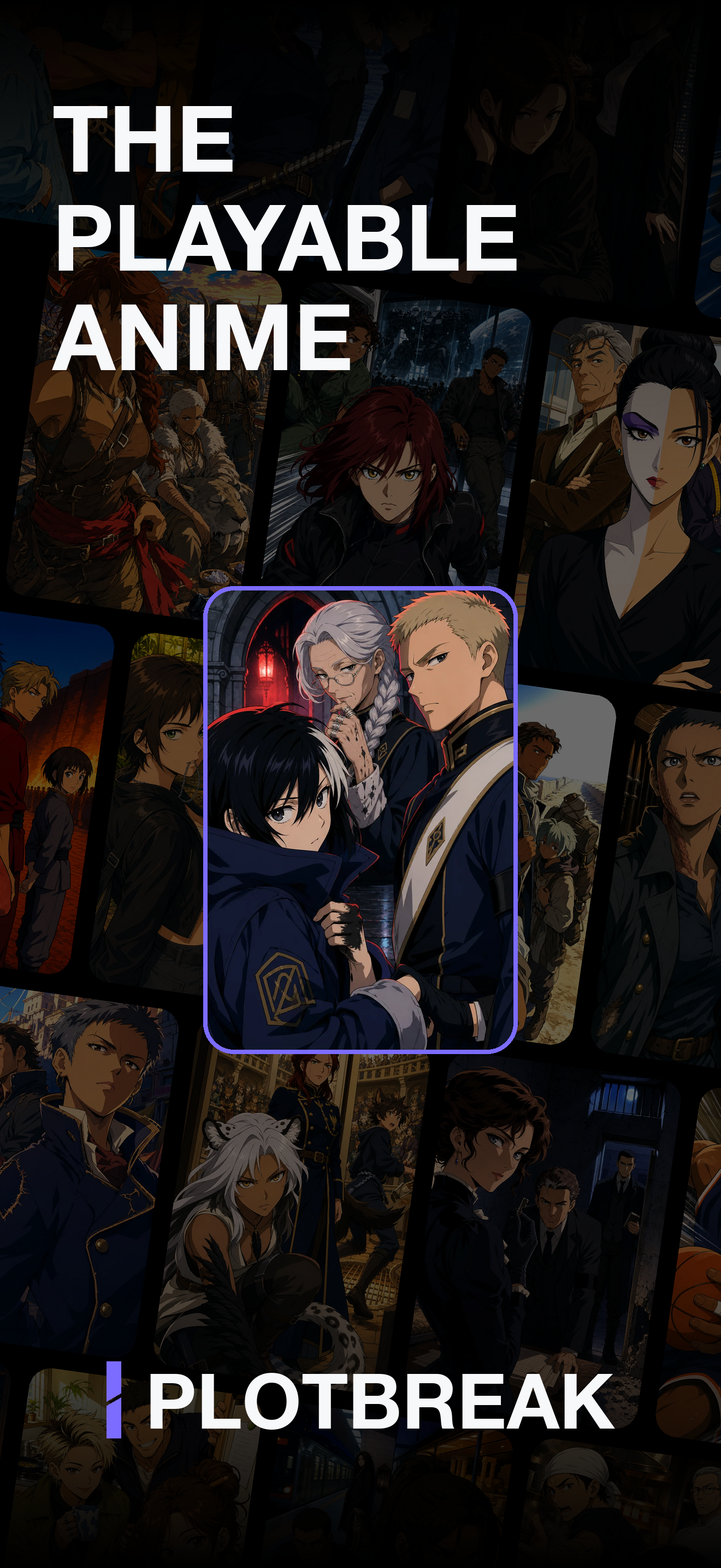
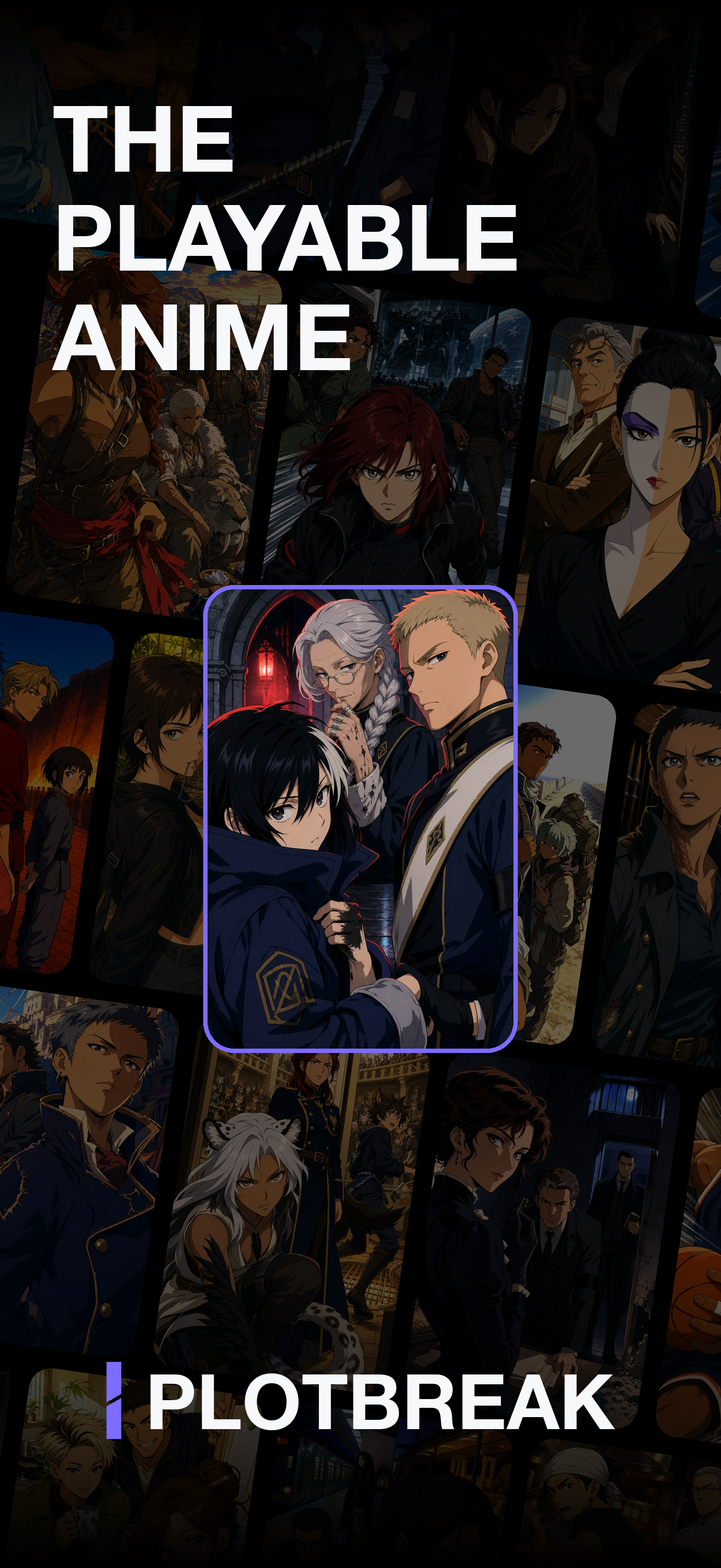
Add the iPad screenshot sets, and regenerate three phone panels
Twenty panels now: five per language for the 6.9-inch iPhone at 1320x2868, and
five per language for the 13-inch iPad at 2064x2752, captured on the iPad Pro
13-inch (M4) simulator. Same five headlines in each language.

compose.py grew a PB_DEVICE switch so one script builds both shapes, and the
phone hero, type and closing panels were rebuilt through it.

Claude-Session: https://claude.ai/code/session_01Dhv1ptyzZB6SFmeny3Qory

diff --git a/docs/appstore-screenshots/compose.py b/docs/appstore-screenshots/compose.py
@@ -1,20 +1,26 @@
-"""App Store screenshot compositor for Plotbreak. 1320x2868 (6.9"), OOC-style.
-usage: python3 compose.py <panel> [args]
-  hero      -> 01-hero.png          (cover collage + THE PLAYABLE ANIME + logo)
-  closing   -> 05-closing.png       (Dare art + headline + logo + tagline)
-  frame N "LINE1|LINE2" shot.png -> 0N-*.png (headline + framed device screenshot)
-"""
-import sys, math, glob, random
-from PIL import Image, ImageDraw, ImageFont, ImageFilter
+"""App Store screenshot compositor for Plotbreak, OOC-style.
 
-S = __import__('os').path.dirname(__import__('os').path.abspath(__file__)) + '/raw'
-OUT = __import__('os').environ.get('PB_OUT') or __import__('os').path.dirname(__import__('os').path.abspath(__file__))
-TAGLINE = __import__('os').environ.get('PB_TAGLINE', 'THE PLAYABLE ANIME')
-RAW = __import__('os').environ.get('PB_RAW')
-W, H = 1320, 2868
-BLACK = (0, 0, 0); VIOLET = (124, 108, 255); WHITE = (247, 248, 250); INK = (11, 13, 18)
+  PB_DEVICE=phone (default, 1320x2868, iPhone 6.9") | ipad (2064x2752, iPad 13")
+  PB_OUT=<dir>            output directory (default: this folder)
+  PB_TAGLINE=<text>       tagline under the closing lockup (default THE PLAYABLE ANIME)
+
+  python3 compose.py hero ["LINE|LINE|LINE"]
+  python3 compose.py closing ["LINE|LINE" ACCENT]
+  python3 compose.py frame N "LINE1|LINE2" raw/shot.png [ACCENT,ACCENT] -> 0N-<firstword>.png
+"""
+import sys, os, math, glob, random
+from PIL import Image, ImageDraw, ImageFont
+
+HERE = os.path.dirname(os.path.abspath(__file__))
+S = HERE + '/raw'
+OUT = os.environ.get('PB_OUT') or HERE
+TAGLINE = os.environ.get('PB_TAGLINE', 'THE PLAYABLE ANIME')
+DEVICE = os.environ.get('PB_DEVICE', 'phone')
+W, H = (2064, 2752) if DEVICE == 'ipad' else (1320, 2868)
+K = W / 1320  # scale for type and spacing relative to the phone canvas
+BLACK = (0, 0, 0); VIOLET = (124, 108, 255); WHITE = (247, 248, 250)
 HN = '/System/Library/Fonts/HelveticaNeue.ttc'
-def font(size, idx=1): return ImageFont.truetype(HN, size, index=idx)  # 1=Bold, 10=Medium, 0=Regular
+def font(size, idx=1): return ImageFont.truetype(HN, int(size), index=idx)  # 1=Bold, 10=Medium
 
 # ---- brand glyph (same geometry as docs/brand/icon.svg) ------------------
 def glyph_pieces(cx, cy, h):
@@ -25,42 +31,44 @@ def glyph_pieces(cx, cy, h):
     return [[(x0, top), (x1, top), (x1, yl(x1) - d), (x0, yl(x0) - d)],
             [(x0, yl(x0) + d), (x1, yl(x1) + d), (x1, bot), (x0, bot)]]
 
-def draw_glyph(dr, cx, cy, h, color, ss=1):
-    for p in glyph_pieces(cx * ss, cy * ss, h * ss): dr.polygon(p, fill=color)
-
-def lockup(cy, wordmark_px=150, tagline=None, tag_px=54):
-    """Return an RGBA layer with glyph + PLOTBREAK centred at y=cy, optional tagline under."""
+def lockup(cy, wordmark_px, tagline=None, tag_px=54):
     layer = Image.new('RGBA', (W, H), (0, 0, 0, 0)); dr = ImageDraw.Draw(layer)
     f = font(wordmark_px); text = 'PLOTBREAK'
-    tw = dr.textlength(text, font=f); gap = wordmark_px * 0.32; gh = wordmark_px * 1.0
-    gw = gh * 128 / 680; total = gw + gap + tw; x = (W - total) / 2
-    draw_glyph(dr, x + gw / 2, cy, gh, VIOLET + (255,))
+    tw = dr.textlength(text, font=f); gap = wordmark_px * 0.32; gh = wordmark_px
+    gw = gh * 128 / 680; x = (W - (gw + gap + tw)) / 2
+    for p in glyph_pieces(x + gw / 2, cy, gh): dr.polygon(p, fill=VIOLET + (255,))
     dr.text((x + gw + gap, cy), text, font=f, fill=WHITE + (255,), anchor='lm')
     if tagline:
-        ft = font(tag_px, 10)
-        dr.text((W / 2, cy + wordmark_px * 0.95), spaced(tagline, 0.18), font=ft, fill=WHITE + (255,), anchor='mm')
+        dr.text((W / 2, cy + wordmark_px * 0.95), ' '.join(tagline), font=font(tag_px, 10), fill=WHITE + (255,), anchor='mm')
     return layer
 
-def spaced(s, tracking):  # fake letter-spacing with hair spaces
-    return ' '.join(s) if tracking <= 0 else (' ' * max(1, int(tracking * 10))).join(s)
-
-def headline(dr, lines, top, size=132, align='center', accent_words=()):
-    # shrink until the widest line fits inside the side margins
-    while size > 60 and max(dr.textlength(l, font=font(size)) for l in lines) > W - 120: size -= 4
+def headline(dr, lines, top, size, align='center', accent_words=()):
+    while size > 60 and max(dr.textlength(l, font=font(size)) for l in lines) > W - 120 * K: size -= 4
     f = font(size); y = top; lh = size * 1.08
     for line in lines:
-        words = line.split(' ')
-        widths = [dr.textlength(w + ' ', font=f) for w in words]
+        words = line.split(' '); widths = [dr.textlength(w + ' ', font=f) for w in words]
         total = sum(widths) - dr.textlength(' ', font=f)
-        x = (W - total) / 2 if align == 'center' else 96
+        x = (W - total) / 2 if align == 'center' else 96 * K
         for w, ww in zip(words, widths):
-            col = VIOLET if w.strip('.,') in accent_words else WHITE
-            dr.text((x, y), w, font=f, fill=col); x += ww
+            dr.text((x, y), w, font=f, fill=VIOLET if w.strip('.,') in accent_words else WHITE); x += ww
         y += lh
     return y
 
 def rounded_mask(size, r):
     m = Image.new('L', size, 0); ImageDraw.Draw(m).rounded_rectangle([0, 0, size[0] - 1, size[1] - 1], r, fill=255); return m
+
+def vertical_fade(im, spans):
+    """spans: list of (y_start, y_end, direction) direction 'in' = black at start fading out, 'out' = fading to black at end."""
+    mask = Image.new('L', (W, H), 0); d = ImageDraw.Draw(mask)
+    for y in range(H):
+        a = 0
+        for y0, y1, direction in spans:
+            if y0 <= y < y1:
+                t = (y - y0) / (y1 - y0)
+                a = max(a, int(255 * ((1 - t) if direction == 'in' else t) ** 1.5))
+            elif direction == 'out' and y >= y1: a = 255
+        d.line([(0, y), (W, y)], fill=a)
+    im.paste(Image.new('RGB', (W, H), BLACK), (0, 0), mask)
 
 # ---- panels ---------------------------------------------------------------
 def hero(lines=('THE', 'PLAYABLE', 'ANIME')):
@@ -69,86 +77,62 @@ def hero(lines=('THE', 'PLAYABLE', 'ANIME')):
     random.seed(7); random.shuffle(covers)
     focus = f'{S}/covers/The Ninth Archive.png'
     if focus in covers: covers.remove(focus)
-    # tilted 3-column grid of cards, drawn on a larger canvas and rotated
-    cw, ch, gap = 430, 645, 34
-    cols, rows = 4, 5
+    cw, ch, gap = int(430 * K), int(645 * K), int(34 * K)
+    cols, rows = (5, 5) if DEVICE == 'ipad' else (4, 5)
     big = Image.new('RGBA', (cols * (cw + gap) + 400, rows * (ch + gap) + 400), (0, 0, 0, 0))
     k = 0
     for r in range(rows):
         for c in range(cols):
-            src = covers[k % len(covers)]; k += 1
-            card = Image.open(src).convert('RGB').resize((cw, ch), Image.LANCZOS)
-            card = Image.eval(card, lambda v: int(v * 0.42))  # dim the field
-            card.putalpha(rounded_mask((cw, ch), 40))
-            x = 200 + c * (cw + gap) + (r % 2) * (cw // 2); y = 200 + r * (ch + gap)
-            big.alpha_composite(card, (x, y))
+            card = Image.open(covers[k % len(covers)]).convert('RGB').resize((cw, ch), Image.LANCZOS); k += 1
+            card = Image.eval(card, lambda v: int(v * (0.30 if DEVICE == 'ipad' else 0.42))); card.putalpha(rounded_mask((cw, ch), int(40 * K)))
+            big.alpha_composite(card, (200 + c * (cw + gap) + (r % 2) * (cw // 2), 200 + r * (ch + gap)))
     big = big.rotate(-8, resample=Image.BICUBIC, expand=False)
-    im.paste(big, ((W - big.width) // 2, (H - big.height) // 2 + 120), big)
-    # fade the field to black at top and bottom for headline / logo
-    fade = Image.new('L', (W, H), 0); fd = ImageDraw.Draw(fade)
-    for y in range(H):
-        a = 0
-        if y < 900: a = int(255 * (1 - y / 900) ** 1.4)
-        if y > H - 700: a = max(a, int(255 * ((y - (H - 700)) / 700) ** 1.4))
-        fd.line([(0, y), (W, y)], fill=a)
-    im.paste(Image.new('RGB', (W, H), BLACK), (0, 0), fade)
-    # focus card, upright, centred, violet border
-    fw, fh = 560, 840
-    fc = Image.open(focus).convert('RGB').resize((fw, fh), Image.LANCZOS)
-    fc.putalpha(rounded_mask((fw, fh), 48))
+    im.paste(big, ((W - big.width) // 2, (H - big.height) // 2 + int(120 * K)), big)
+    vertical_fade(im, [(0, int(H * (0.40 if DEVICE == 'ipad' else 0.31)), 'in'), (int(H * (0.72 if DEVICE == 'ipad' else 0.76)), H, 'out')])
+    fw, fh = int(560 * K), int(840 * K)
+    fc = Image.open(focus).convert('RGB').resize((fw, fh), Image.LANCZOS); fc.putalpha(rounded_mask((fw, fh), int(48 * K)))
     border = Image.new('RGBA', (fw + 16, fh + 16), (0, 0, 0, 0))
-    ImageDraw.Draw(border).rounded_rectangle([0, 0, fw + 15, fh + 15], 56, fill=VIOLET + (255,))
-    fx, fy = (W - fw) // 2, 1080
+    ImageDraw.Draw(border).rounded_rectangle([0, 0, fw + 15, fh + 15], int(56 * K), fill=VIOLET + (255,))
+    fx, fy = (W - fw) // 2, int(H * (0.40 if DEVICE == 'ipad' else 0.376))
     im.paste(border, (fx - 8, fy - 8), border); im.paste(fc, (fx, fy), fc)
-    dr = ImageDraw.Draw(im)
-    headline(dr, list(lines), 150, size=168, align='left')
-    im.paste(lockup(2560, wordmark_px=140), (0, 0), lockup(2560, wordmark_px=140))
+    headline(ImageDraw.Draw(im), list(lines), int(150 * K), size=(190 if DEVICE == 'ipad' else 168), align='left')
+    lk = lockup(int(H * (0.905 if DEVICE == 'ipad' else 0.893)), 140 * K); im.paste(lk, (0, 0), lk)
     im.save(f'{OUT}/01-hero.png'); print('01-hero.png')
 
-def closing(art=f'{S}/closing-art.png', lines=('ROLLED,', 'NOT DECIDED'), accent=('NOT',)):
+def closing(lines=('ROLLED,', 'NOT DECIDED'), accent=('NOT',), art=f'{S}/closing-art.png'):
     im = Image.new('RGB', (W, H), BLACK)
     a = Image.open(art).convert('RGB')
-    scale = W / a.width; a = a.resize((W, int(a.height * scale)), Image.LANCZOS)
-    y0 = 560
-    im.paste(a, (0, y0))
-    # soften the art's top & bottom edges into black
-    for edge, span in ((y0, 260), (y0 + a.height - 260, 260)):
-        for i in range(span):
-            y = edge + i
-            if 0 <= y < H:
-                t = i / span; al = int(255 * (1 - t) ** 2) if edge == y0 else int(255 * t ** 2)
-                ImageDraw.Draw(im).line([(0, y), (W, y)], fill=BLACK + (0,)) if False else None
-    top = Image.new('L', (W, H), 0); td = ImageDraw.Draw(top)
-    for y in range(H):
-        al = 0
-        if y0 <= y < y0 + 300: al = int(255 * (1 - (y - y0) / 300) ** 1.6)
-        if y >= y0 + a.height - 420: al = max(al, int(255 * min(1, (y - (y0 + a.height - 420)) / 420) ** 1.6))
-        if y >= y0 + a.height: al = 255
-        td.line([(0, y), (W, y)], fill=al)
-    im.paste(Image.new('RGB', (W, H), BLACK), (0, 0), top)
-    dr = ImageDraw.Draw(im)
-    headline(dr, list(lines), 210, size=150, accent_words=accent)
-    lk = lockup(2480, wordmark_px=170, tagline=TAGLINE, tag_px=52)
-    im.paste(lk, (0, 0), lk)
+    if DEVICE == 'ipad':
+        ah = int(H * 0.64); a = a.resize((int(a.width * ah / a.height), ah), Image.LANCZOS); y0 = int(H * 0.22)
+    else:
+        a = a.resize((W, int(a.height * W / a.width)), Image.LANCZOS); y0 = 560
+    im.paste(a, ((W - a.width) // 2, y0))
+    vertical_fade(im, [(y0, y0 + int(300 * K), 'in'), (y0 + a.height - int(420 * K), y0 + a.height, 'out')])
+    headline(ImageDraw.Draw(im), list(lines), int(210 * K) if DEVICE == 'phone' else 170, size=(160 if DEVICE == 'ipad' else 150), accent_words=accent)
+    lk = lockup(int(H * (0.885 if DEVICE == 'ipad' else 0.865)), 170 * K, tagline=TAGLINE, tag_px=52 * K); im.paste(lk, (0, 0), lk)
     im.save(f'{OUT}/05-closing.png'); print('05-closing.png')
 
 def frame(n, text, shot, accent=()):
     im = Image.new('RGB', (W, H), BLACK); dr = ImageDraw.Draw(im)
     lines = text.split('|')
-    y = headline(dr, lines, 190, size=118, accent_words=accent)
-    # device: bezel + screenshot, bleeding off the bottom edge
-    sw = 1130; sh = int(sw * 2868 / 1320); bez = 34; r_out = 196; r_in = 166
-    px = (W - sw) // 2; py = int(y + 150)
+    y = headline(dr, lines, int(190 * K), size=118 * K, accent_words=accent)
+    sc = Image.open(shot).convert('RGB')
+    if DEVICE == 'ipad':
+        sw = int(W * 0.84); bez = 44; r_out, r_in = 120, 84
+    else:
+        sw = 1130; bez = 34; r_out, r_in = 196, 166
+    sh = int(sw * sc.height / sc.width); px = (W - sw) // 2; py = int(y + 150 * K)
     shell = Image.new('RGBA', (sw + 2 * bez, sh + 2 * bez), (0, 0, 0, 0))
     ImageDraw.Draw(shell).rounded_rectangle([0, 0, shell.width - 1, shell.height - 1], r_out, fill=(26, 28, 34, 255), outline=(60, 63, 72, 255), width=3)
     im.paste(shell, (px - bez, py - bez), shell)
-    sc = Image.open(shot).convert('RGB').resize((sw, sh), Image.LANCZOS); sc.putalpha(rounded_mask((sw, sh), r_in))
+    sc = sc.resize((sw, sh), Image.LANCZOS); sc.putalpha(rounded_mask((sw, sh), r_in))
     im.paste(sc, (px, py), sc)
     name = f'{OUT}/{n:02d}-{lines[0].lower().split(" ")[0].strip(".,")}.png'
     im.save(name); print(name.split('/')[-1])
 
 if __name__ == '__main__':
-    cmd = sys.argv[1]
-    if cmd == 'hero': hero(tuple(sys.argv[2].split('|')) if len(sys.argv) > 2 else ('THE', 'PLAYABLE', 'ANIME'))
-    elif cmd == 'closing': closing(f'{S}/closing-art.png', tuple(sys.argv[2].split('|')) if len(sys.argv) > 2 else ('ROLLED,', 'NOT DECIDED'), tuple(sys.argv[3].split(',')) if len(sys.argv) > 3 else ('NOT',))
-    elif cmd == 'frame': frame(int(sys.argv[2]), sys.argv[3], sys.argv[4], tuple(sys.argv[5].split(',')) if len(sys.argv) > 5 else ())
+    os.makedirs(OUT, exist_ok=True)
+    cmd, a = sys.argv[1], sys.argv[2:]
+    if cmd == 'hero': hero(tuple(a[0].split('|')) if a else ('THE', 'PLAYABLE', 'ANIME'))
+    elif cmd == 'closing': closing(tuple(a[0].split('|')) if a else ('ROLLED,', 'NOT DECIDED'), tuple(a[1].split(',')) if len(a) > 1 else ('NOT',))
+    elif cmd == 'frame': frame(int(a[0]), a[1], a[2], tuple(a[3].split(',')) if len(a) > 3 else ())

diff --git a/docs/appstore-screenshots/README.md b/docs/appstore-screenshots/README.md
@@ -28,3 +28,11 @@ language it began in). Tagline: L'ANIME JOUABLE. Rebuild with
 headlines: `L'ANIME|JOUABLE`, `ÉCRIS CE QUE TU VEUX.|LE MOTEUR TRANCHE.`,
 `VINGT-TROIS MONDES|QUI SE SOUVIENNENT DE TOI`, `SOIS QUI|TU VEUX`,
 `LES DÉS|DÉCIDENT`.
+
+## iPad 13-inch sets (`ipad/`, `ipad-fr/`)
+
+2064x2752 panels for the 13-inch iPad slot, same five headlines per language,
+captured on the iPad Pro 13-inch (M4) simulator (`raw/ipad-*.png`). Rebuild with
+`PB_DEVICE=ipad PB_OUT=ipad python3 compose.py ...` (and `PB_TAGLINE` for FR).
+The iPad session frames include a generated scene image, which the phone runs
+did not produce on their first turn.
